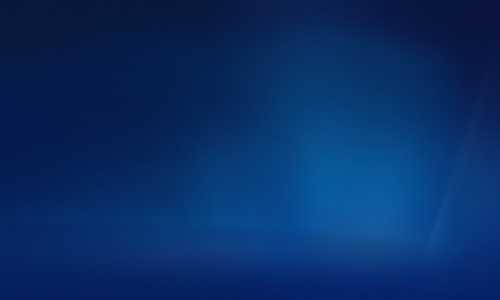
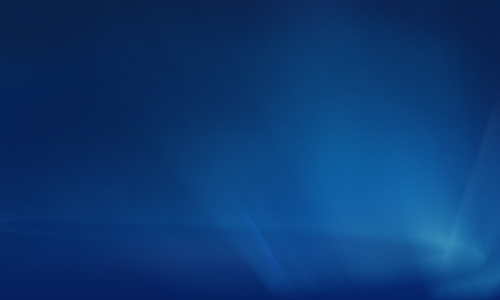
Semi-transparent TV-stream in background of Full-EPG Updated opacity in colors in Full-EPG Better background image for all screens

Changed region(s): [[0.78, 0.51, 1.0, 0.99], [0.51, 0.78, 0.6, 0.96], [0.84, 0.09, 0.9, 0.21]]

diff --git a/MediaPortal/Source/UI/TV/SlimTvClient/Skin/WMCSkin/screens/SlimTvClient-fullguide.xaml b/MediaPortal/Source/UI/TV/SlimTvClient/Skin/WMCSkin/screens/SlimTvClient-fullguide.xaml
@@ -14,8 +14,21 @@
 
     <!-- SlimTvClient model -->
     <Model x:Key="SlimTvMultiChannelGuide" Id="5054408D-C2A9-451f-A702-E84AFCD29C10"/>
-
     <tv:SlimTvGuideTimeFormatConverter x:Key="SlimTvGuideTimeFormatConverter" />
+
+    <ControlTemplate x:Key="FanArtBackground_Template">
+      <ControlTemplate.Resources>
+        <fanart:FanArtImageSourceConverter x:Key="FanArtImageSourceConverter"/>
+        <Model x:Key="FanArtBackgroundModel" Id="8F42C8E9-E8A3-475C-A50A-99E1E644DC91"/>
+        <Model x:Key="SkinSettingsModel" Id="13961014-16C4-4361-9751-8E2C585EFD44"/>
+      </ControlTemplate.Resources>
+      <Grid HorizontalAlignment="Stretch" VerticalAlignment="Stretch">
+        <Grid.Background>
+          <VideoBrush Stream="0"/>
+        </Grid.Background>
+        <Image Stretch="Fill" Opacity="1" Source="Background_GridView.png"/>
+      </Grid>
+    </ControlTemplate>
 
     <!-- Contents -->
     <ControlTemplate x:Key="Client_Template">
@@ -45,10 +58,10 @@
           </Grid.RowDefinitions>
 
           <Label Grid.Column="0" Content="{Binding Path=GuideStartTime, Converter={StaticResource SlimTvDateFormatConverter}}"
-                 Color="{ThemeResource TextColor}" FontSize="{ThemeResource SmallFontSize}" Opacity="0.5"
-                 VerticalAlignment="Center" Margin="7,0,0,0"/>
-          <Label Grid.Column="1" Color="{ThemeResource TextColor}" FontSize="{ThemeResource SmallFontSize}"
-                 VerticalAlignment="Center" Margin="7,0,0,0" Opacity="0.5">
+                 Color="{ThemeResource MenuTextBackground}" FontSize="{ThemeResource SmallFontSize}"
+                 VerticalAlignment="Center" Margin="7,0,0,0" Opacity="1.1"/>
+          <Label Grid.Column="1" Color="{ThemeResource MenuTextBackground}" FontSize="{ThemeResource SmallFontSize}"
+                 VerticalAlignment="Center" Margin="7,0,0,0" Opacity="1.1">
             <Label.Content>
               <MultiBinding Converter="{StaticResource SlimTvGuideTimeFormatConverter}" ConverterParameter="0.25">
                 <Binding Path="GuideStartTime"/>
@@ -56,8 +69,8 @@
               </MultiBinding>
             </Label.Content>
           </Label>
-          <Label Grid.Column="2" Color="{ThemeResource TextColor}" FontSize="{ThemeResource SmallFontSize}"
-                 VerticalAlignment="Center" Margin="7,0,0,0" Opacity="0.5">
+          <Label Grid.Column="2" Color="{ThemeResource MenuTextBackground}" FontSize="{ThemeResource SmallFontSize}"
+                 VerticalAlignment="Center" Margin="7,0,0,0" Opacity="1.1">
             <Label.Content>
               <MultiBinding Converter="{StaticResource SlimTvGuideTimeFormatConverter}" ConverterParameter="0.5">
                 <Binding Path="GuideStartTime"/>
@@ -65,8 +78,8 @@
               </MultiBinding>
             </Label.Content>
           </Label>
-          <Label Grid.Column="3" Color="{ThemeResource TextColor}" FontSize="{ThemeResource SmallFontSize}"
-                 VerticalAlignment="Center" Margin="7,0,0,0" Opacity="0.5">
+          <Label Grid.Column="3" Color="{ThemeResource MenuTextBackground}" FontSize="{ThemeResource SmallFontSize}"
+                 VerticalAlignment="Center" Margin="7,0,0,0" Opacity="1.1">
             <Label.Content>
               <MultiBinding Converter="{StaticResource SlimTvGuideTimeFormatConverter}" ConverterParameter="0.75">
                 <Binding Path="GuideStartTime"/>
@@ -86,20 +99,22 @@
                     Command="{Command Source={Service WorkflowManager},Path=NavigatePush,Parameters=CB5D4851-27D2-4222-B6A0-703EDC2071B5}"
                     VerticalAlignment="Center" HorizontalAlignment="Left"/>
             <Label x:Name="SearchLabel" Grid.Column="1" Content="[Media.SimpleSearchFilterMenuItem]" Margin="5,0,5,0" VerticalAlignment="Center"
-                   Color="{ThemeResource TextColor}" FontSize="{ThemeResource SmallFontSize}"/>
+                   Color="{ThemeResource TextColor}" FontSize="{ThemeResource SmallFontSize}" FontFamily="SegoeUIBold"/>
           <Grid.Triggers>
             <MultiTrigger>
               <MultiTrigger.Conditions>
                 <Condition Property="IsMouseOver" Value="False"/>
                 <Condition Property="IsKeyboardFocusWithin" Value="False"/>
               </MultiTrigger.Conditions>
-              <Setter TargetName="SearchLabel" Property="Opacity" Value="0.5"/>
+                <Setter TargetName="SearchLabel" Property="Color" Value="{ThemeResource MenuTextBackground}"/>
             </MultiTrigger>
           </Grid.Triggers>
         </Grid>
 
-          <Grid x:Name="TimeControls" Margin="20,0,20,0"
-              HorizontalAlignment="Left" VerticalAlignment="Center">
+          <Grid x:Name="TimeControls" Margin="20,0,20,0" HorizontalAlignment="Left" VerticalAlignment="Center">
+            <Grid.Resources>
+              <Model x:Key="TimeModel" Id="E821B1C8-0666-4339-8027-AA45A4F6F107"/>
+            </Grid.Resources>
             <Grid.ColumnDefinitions>
               <ColumnDefinition Width="Auto"/>
               <ColumnDefinition Width="Auto"/>
@@ -107,6 +122,11 @@
             </Grid.ColumnDefinitions>
             <Button x:Name="ScrollBackwardButton" Grid.Column="0" Style="{ThemeResource PreviousButtonStyle}" Margin="1,0,1,0"
                   Command="{Command ScrollBackward}" VerticalAlignment="Center"/>
+
+            <!--Label x:Name="DateLabel" Content="{Binding Source={StaticResource TimeModel}, Path=CurrentDate, Converter={StaticResource DateFormatConverter}, ConverterParameter=yyyy}" 
+                   FontSize="{ThemeResource SmallFontSize}" FontFamily="SegoeUIBold"
+                   Color="{ThemeResource TextColor}" VerticalAlignment="Center" HorizontalAlignment="Right" Margin="5,0,5,0"/-->
+            
             <Button x:Name="ScrollForwardButton" Grid.Column="2" Style="{ThemeResource NextButtonStyle}" Margin="1,0,1,0" 
                   Command="{Command ScrollForward}" VerticalAlignment="Center"/>
             <Grid.Triggers>
@@ -115,7 +135,7 @@
                   <Condition Property="IsMouseOver" Value="False"/>
                   <Condition Property="IsKeyboardFocusWithin" Value="False"/>
                 </MultiTrigger.Conditions>
-                <Setter TargetName="GuideStartTimeLabel" Property="Opacity" Value="0.5"/>
+                <Setter TargetName="DateLabel" Property="Color" Value="{ThemeResource MenuTextBackground}"/>
               </MultiTrigger>
             </Grid.Triggers>
           </Grid>
@@ -153,7 +173,7 @@
         <tv:EpgGrid x:Name="EpgGrid" Grid.Column="0" Grid.Row="1" Grid.ColumnSpan="3" Style="{ThemeResource EpgGridStyle}" Margin="0,0,0,20"/>
 
         <Label x:Name="Time" Grid.Column="2" Grid.Row="2" FontSize="{ThemeResource SmallFontSize}" HorizontalAlignment="Right" Margin="0,-20,0,0"
-               Content="{Binding Source={StaticResource TimeModel}, Path=CurrentTime}" Color="{ThemeResource ProgramLabelNoFocus}"/>
+               Content="{Binding Source={StaticResource TimeModel}, Path=CurrentTime}" Color="{ThemeResource MenuTextBackground}" Opacity="1.2"/>
 
         <GroupBox  Grid.Column="0" Grid.Row="2" Grid.ColumnSpan="3" Header="[SlimTvClient.CurrentlyPlayingInformationHeader]" 
                    Style="{ThemeResource ContentGroupBoxStyle}" FontSize="{ThemeResource SmallFontSize}" Margin="0,5,0,-5">

diff --git a/MediaPortal/Source/UI/TV/SlimTvClient/Skin/WMCSkin/themes/default/styles/SlimTvColors.xaml b/MediaPortal/Source/UI/TV/SlimTvClient/Skin/WMCSkin/themes/default/styles/SlimTvColors.xaml
@@ -8,8 +8,8 @@
   <ResourceWrapper x:Key="ProgramLabelNoFocus" Resource="#FF8E9DAE"/>
 
   <!-- Program guide colors -->
-  <ResourceWrapper x:Key="ProgramChannelBaseFill" Resource="#A6000000"/>
-  <ResourceWrapper x:Key="ProgramBaseFill" Resource="#40000000"/>
+  <ResourceWrapper x:Key="ProgramChannelBaseFill" Resource="#D9000000"/>
+  <ResourceWrapper x:Key="ProgramBaseFill" Resource="#D900264c"/>
   <ResourceWrapper x:Key="ProgramRunningFill" Resource="#A0134763"/> 
   <ResourceWrapper x:Key="ProgramScheduledFill" Resource="#A0FF0000"/>
   

diff --git a/MediaPortal/Source/UI/Skins/WMC/Skin/WMCSkin/screens/master_home.xaml b/MediaPortal/Source/UI/Skins/WMC/Skin/WMCSkin/screens/master_home.xaml
@@ -25,6 +25,7 @@ Parameters which have to be accessible by a DynamicResource lookup:
  - Header_Text (String): The text to be displayed as header
  - Client_Template (ConrolTemplate): Template for element to be shown in the client area.
 -->
+
 <Screen
     xmlns="www.team-mediaportal.com/2008/mpf/directx"
     xmlns:x="http://schemas.microsoft.com/winfx/2006/xaml"
